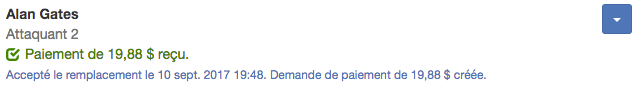
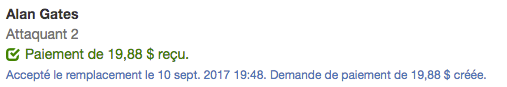
fixed image

diff --git a/_posts/fr/2017-08-01-paiements-remplacant.md b/_posts/fr/2017-08-01-paiements-remplacant.md
@@ -25,7 +25,7 @@ Vous pouvez voir l’argent que vous devez collecter dans la page de la partie.
 
 {% include image.html src="2017-09-10-amount-due-fr.png" caption="Montant impayé." %}
 
-{% include image.html src="2017-09-10-amount-due-fr.png" caption="Montant payé." %}
+{% include image.html src="2017-09-10-amount-paid-fr.png" caption="Montant payé." %}
 
 ### Configuration de la ligue
 
